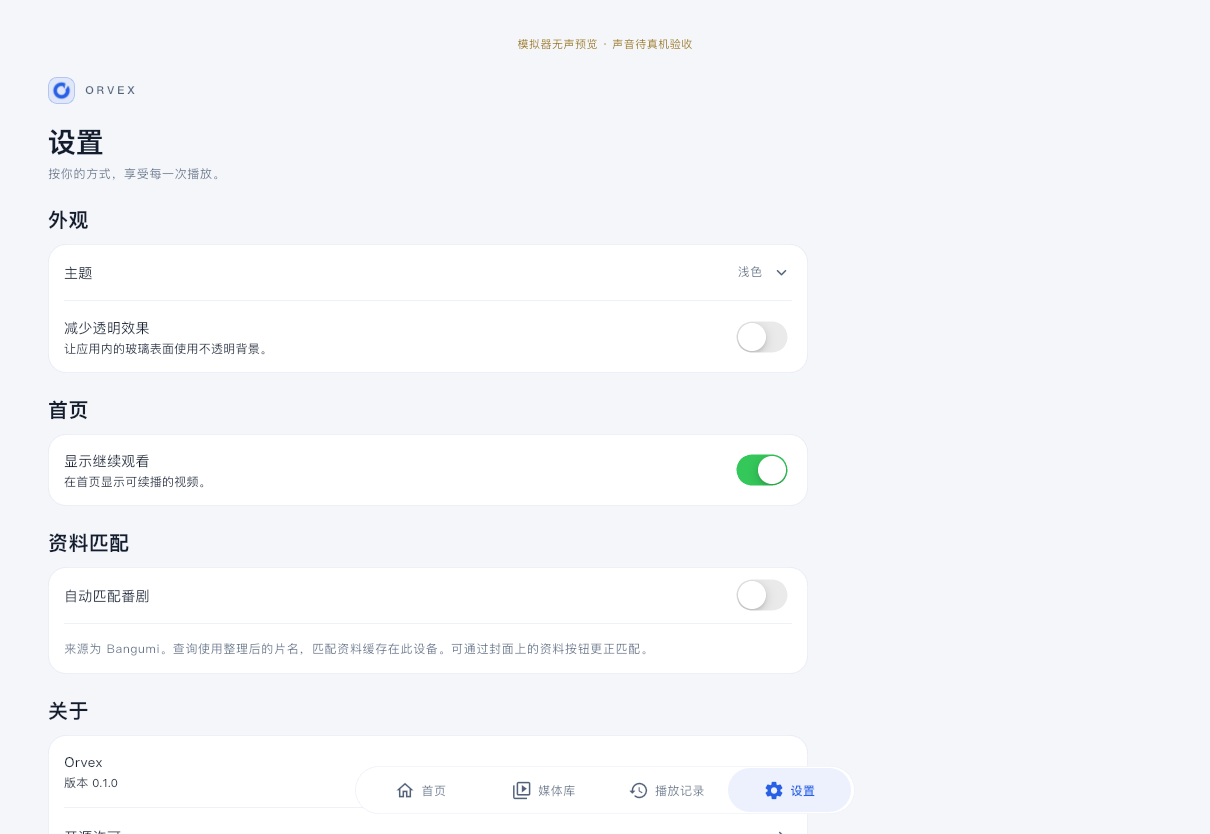
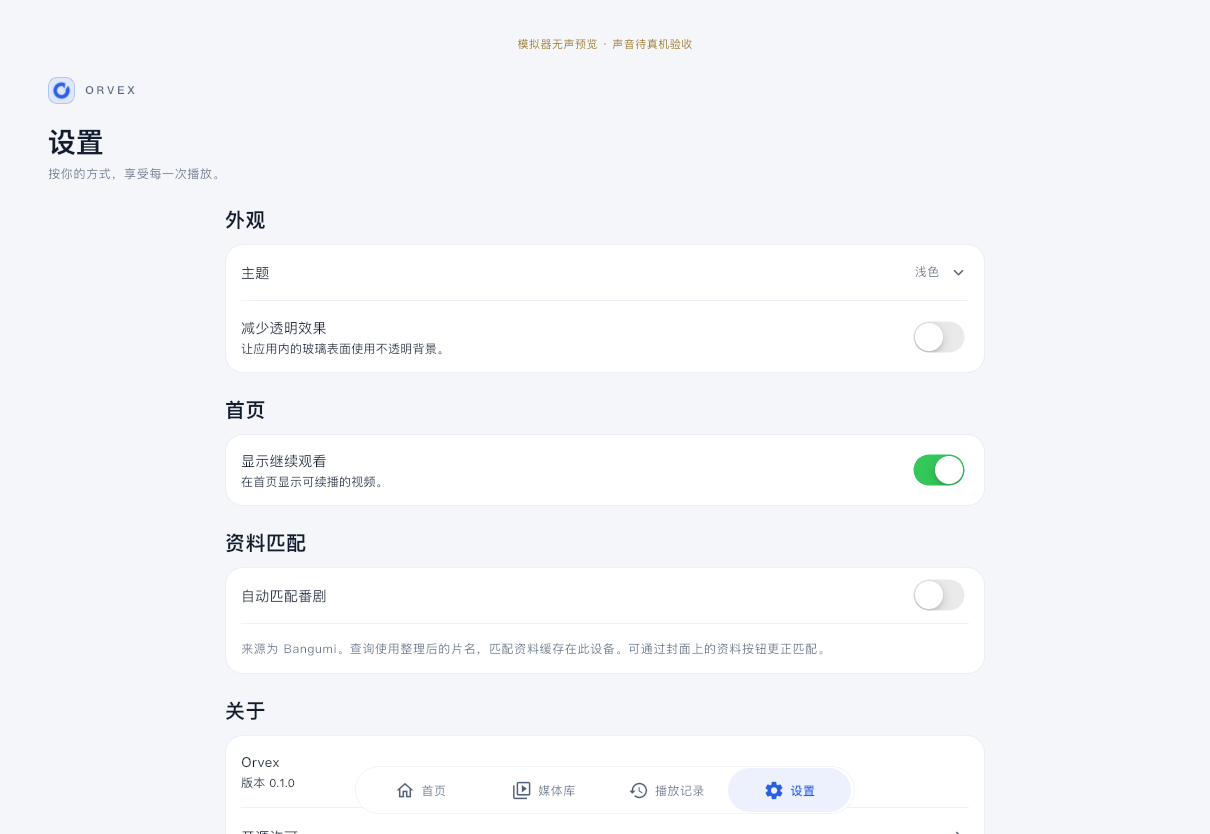
fix: center the settings form in wide layouts

diff --git a/integration_test/home_polish_test.dart b/integration_test/home_polish_test.dart
@@ -759,6 +759,7 @@ void main() {
         await tester.pump(const Duration(milliseconds: 450));
         expect(find.byType(TextFormField), findsWidgets);
         expect(find.byKey(const ValueKey('home-library')), findsNothing);
+        final libraryHeaderLeft = tester.getTopLeft(find.byType(OrvexBrand)).dx;
         await tester.tap(find.byKey(const ValueKey('tab-0')));
         await tester.pump(const Duration(milliseconds: 450));
         await scrollHome(bottom: true);
@@ -781,8 +782,12 @@ void main() {
           matching: find.byType(OrvexBrand),
         );
         expect(
-          tester.getTopLeft(themePicker).dx,
           tester.getTopLeft(settingsBrand).dx,
+          closeTo(libraryHeaderLeft, .01),
+        );
+        expect(
+          tester.getCenter(themePicker).dx,
+          closeTo(tester.getCenter(settingsPage).dx, .01),
         );
         expect(
           tester.getSize(themePicker).width,
@@ -1191,6 +1196,18 @@ void main() {
         await tester.tap(find.byKey(const ValueKey('tab-3')));
         await tester.pump(const Duration(milliseconds: 450));
         final miniBounds = tester.getRect(mini);
+        final narrowThemeBounds = tester.getRect(themePicker);
+        final narrowPageBounds = tester.getRect(settingsPage);
+        final narrowInset =
+            tester.getTopLeft(settingsBrand).dx - narrowPageBounds.left;
+        expect(
+          narrowThemeBounds.left - narrowPageBounds.left,
+          closeTo(narrowInset, .01),
+        );
+        expect(
+          narrowPageBounds.right - narrowThemeBounds.right,
+          closeTo(narrowInset, .01),
+        );
         await tester.tap(find.widgetWithText(SwitchListTile, '显示继续观看'));
         await tester.pump(const Duration(milliseconds: 450));
         expect(

diff --git a/lib/features/library/presentation/library_views.dart b/lib/features/library/presentation/library_views.dart
@@ -95,9 +95,11 @@ class LibraryViews extends StatelessWidget {
             children: [
               _header(context),
               const SizedBox(height: OrvexMetrics.section),
-              ConstrainedBox(
-                constraints: const BoxConstraints(maxWidth: 760),
-                child: _settings(context),
+              Center(
+                child: ConstrainedBox(
+                  constraints: const BoxConstraints(maxWidth: 760),
+                  child: _settings(context),
+                ),
               ),
             ],
           ),

diff --git a/docs/verification/settings-first/README.md b/docs/verification/settings-first/README.md
@@ -1,6 +1,6 @@
 # 设置页第一轮整理
 
-页头与表单左边界复用媒体库的 `libraryBrowseInset`。表单在宽窗口保留原有最大宽度。页底继续采用底部播放卡和导航测量后的留位。
+页头复用媒体库的 `libraryBrowseInset`。表单在宽窗口保留原有最大宽度并水平居中，在窄窗口占满页边距内的宽度。页底继续采用底部播放卡和导航测量后的留位。
 
 | 设置 | 存储与实际作用 |
 | --- | --- |
@@ -14,7 +14,7 @@
 
 `./scripts/check` 通过，包含格式、静态分析和 171 项测试。主题保存后重新初始化偏好控制器，核对三种选择的读回结果；组件测试模拟系统外观与 iOS 辅助功能变化，并用替身验证 Bangumi 自动查询。正式版已覆盖安装并启动于 iPad Pro 2022。真机的应用重启、系统辅助功能切换和用户片库操作留待人工验收。
 
-iPad 模拟器集成测试通过。核对媒体库与设置页的左边界、主题菜单、真实版本号、隐藏续播区后保留原记录与播放会话，以及有底部播放卡时仍能在窄窗打开开源许可。该测试使用无声模拟器素材。
+iPad 模拟器集成测试通过。核对媒体库与设置页的页头左边界、宽屏表单居中、窄窗口表单边距、主题菜单、真实版本号、隐藏续播区后保留原记录与播放会话，以及有底部播放卡时仍能在窄窗打开开源许可。该测试使用无声模拟器素材。
 
 | iPad 模拟器 | 截图 |
 | --- | --- |
